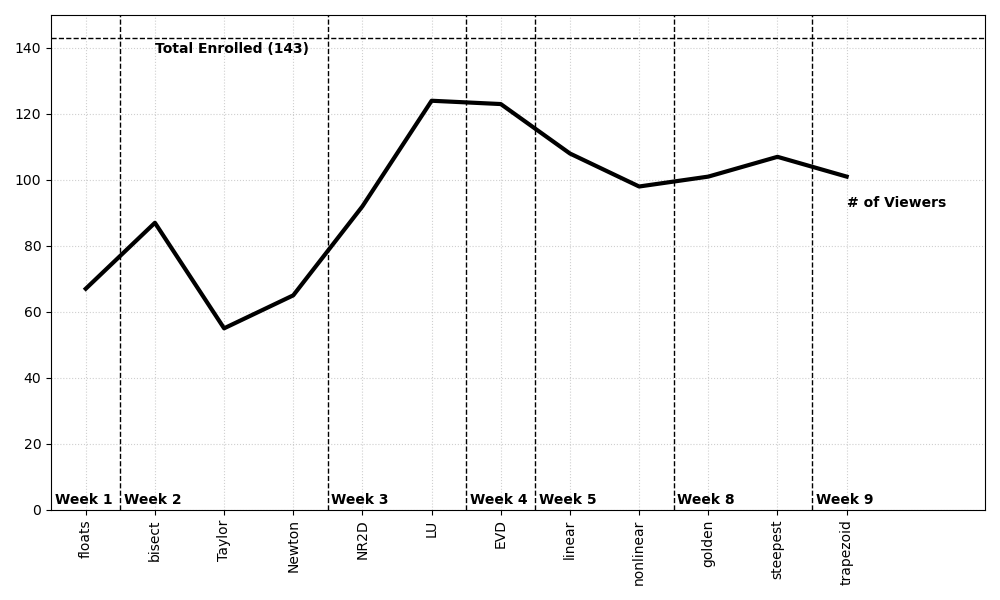
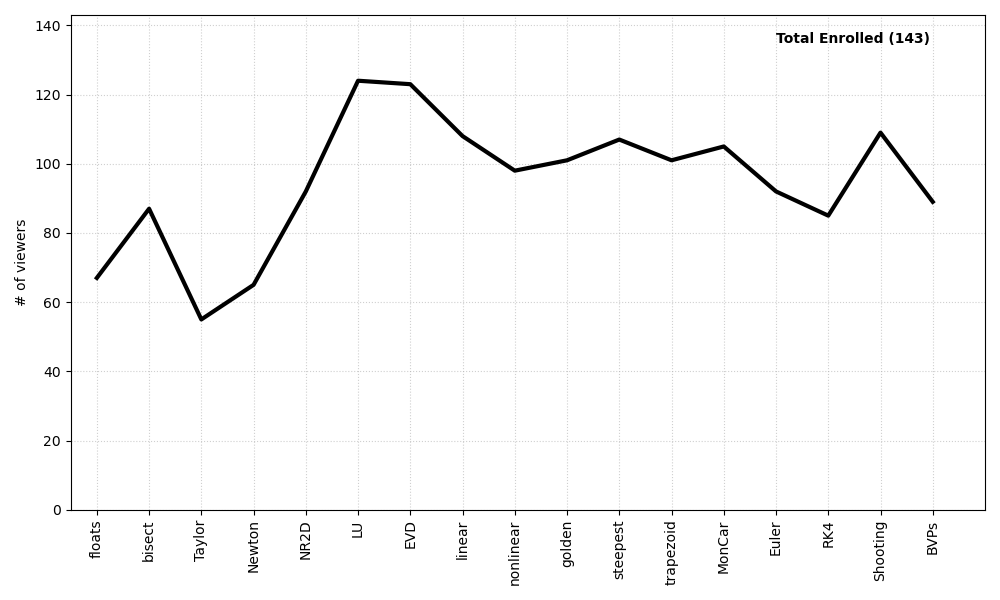
update video views

diff --git a/1_prog-basics/languages.md b/1_prog-basics/languages.md
@@ -87,7 +87,7 @@ print(S)
 :::
 
 
-:::{tab-item} python
+:::{tab-item} Python
 
 Reasons to choose Python:
 - For everyone it is free.
@@ -98,7 +98,7 @@ Reasons to choose Python:
 
 
 Reasons to NOT choose Python:
-- It has become widely used by engineers and scientists (see for example [TrackPy](http://soft-matter.github.io/trackpy/)), but at its core it was not invented for engineers. NumPy/SciPy/matplotlib have been thoroughly developed, but it just less appealing to have to deal with ```np.sin(x)``` instead of just ```sin(x)```. Here is how to get a matrix inverse: ```np.linalg.inv(matrix_a)```.Raising to a power is ```**``` instead of ```^```. Ugh. (Yes, I know you can ```from numpy import sin``` or even ```from numpy import *``` but that is rarely done.)
+- It has become widely used by engineers and scientists (see for example [TrackPy](http://soft-matter.github.io/trackpy/)), but at its core it was not invented for engineers. NumPy/SciPy/matplotlib have been thoroughly developed, but it just less appealing to have to deal with ```np.sin(x)``` instead of just ```sin(x)```. Here is how to get a matrix inverse: ```np.linalg.inv(matrix_a)```. Raising to a power is ```**``` instead of ```^```. Ugh. (Yes, I know you can ```from numpy import sin``` or even ```from numpy import *``` but that is rarely done.)
 - Indexing starts with 0, which might annoy you enough to look elsewhere.
 - The install process, including package management, is not overwhelming, but it is extra steps that may have to occur in the command window/terminal.
 :::{aside}
@@ -126,9 +126,9 @@ print(S)
 
 :::{tab-item} Julia
 Reasons to choose Julia:
-- For everyone it is free (open source).
+- For everyone it is free.
 - It is a language developed for scientists and engineers. The code looks like math.
-- It is a small, seemingly advanced user base of scientists and engineers, but they seem wise and helpful.
+- It has a small, seemingly advanced user base of scientists and engineers, but they seem wise and helpful.
 - Indexing starts with 1.
 - Among these three languages, it is the most serious computational science language, as in: people on the cutting edge of computational research are choosing it.
 
@@ -138,12 +138,16 @@ Reasons to NOT choose Julia:
 - It is not clear if Julia will continue to grow or if it will fade away -- you might become an expert in something that no one cares about in 10 years.
 - We will likely not have need to use the truly powerful aspects of Julia, e.g. multiple dispatch.
 - It seems that Julia sometimes goes out of its way to name things differently than MATLAB/Python. In MATLAB: ```linspace(0,10,101)``` makes an array with 101 elements. In Python+NumPy it is ```np.linspace(0,10,101)```. In Julia it is ```LinRange(0,10,101)```... OK Julia. This is not a reason not to choose Julia on its own, but if you are talking to MATLAB/Python people it is a little annoyance.
-- Julia makes some decisions for computational efficiency that can maybe be frustrating to a less-experienced user. For example: you'll see in the code snipped below that an extra step is necessary because variable "scope" is limited within loops. I am sure there are deep reasons for this.
+- Julia makes some decisions for computational efficiency that can maybe be frustrating to a less-experienced user. For example, you'll see in the code snippet below (assuming that it's a script) that a clarification must be made: variable "scope" is limited within loops by default, and so we must warn Julia that ```S``` is actually a ```global``` variable. I am sure there are deep reasons for this, but it can be annoying.
 
 Example code:
 ```julia
-
-
+k = 2
+N = 50
+S = 0.0
+for n in 1:N
+    global S += 1/n^k  # Explicitly tell Julia to use the global S
+end
 ```
 :::
 

diff --git a/8_ODEs/BVPs.md b/8_ODEs/BVPs.md
@@ -77,7 +77,7 @@ a(x_N)y_{N-1} + b(x_N)y_{N} + c(x_N)y_{N+1} &= f(x_N) ~??
 $$
 
 How can we reference the value of $y$ at the zeroth and $(N+1)\text{th}$ node when we have discretized the geometry from node $1$ to $N$? The differencing scheme only gives us equations for $i=2,3,..., N-1$. So we have $N-2$ equations, $N$ unknowns?!
-:::{aside}
+:::{seealso}
 There is another way to handle the edges called the "ghost point method" where indeed one uses hypothetical/ghost points outside the domain to enforce the boundary conditions. We will stick to this easier formulation where the edge points of our discretized domain are set by boundary conditions.
 :::
 
